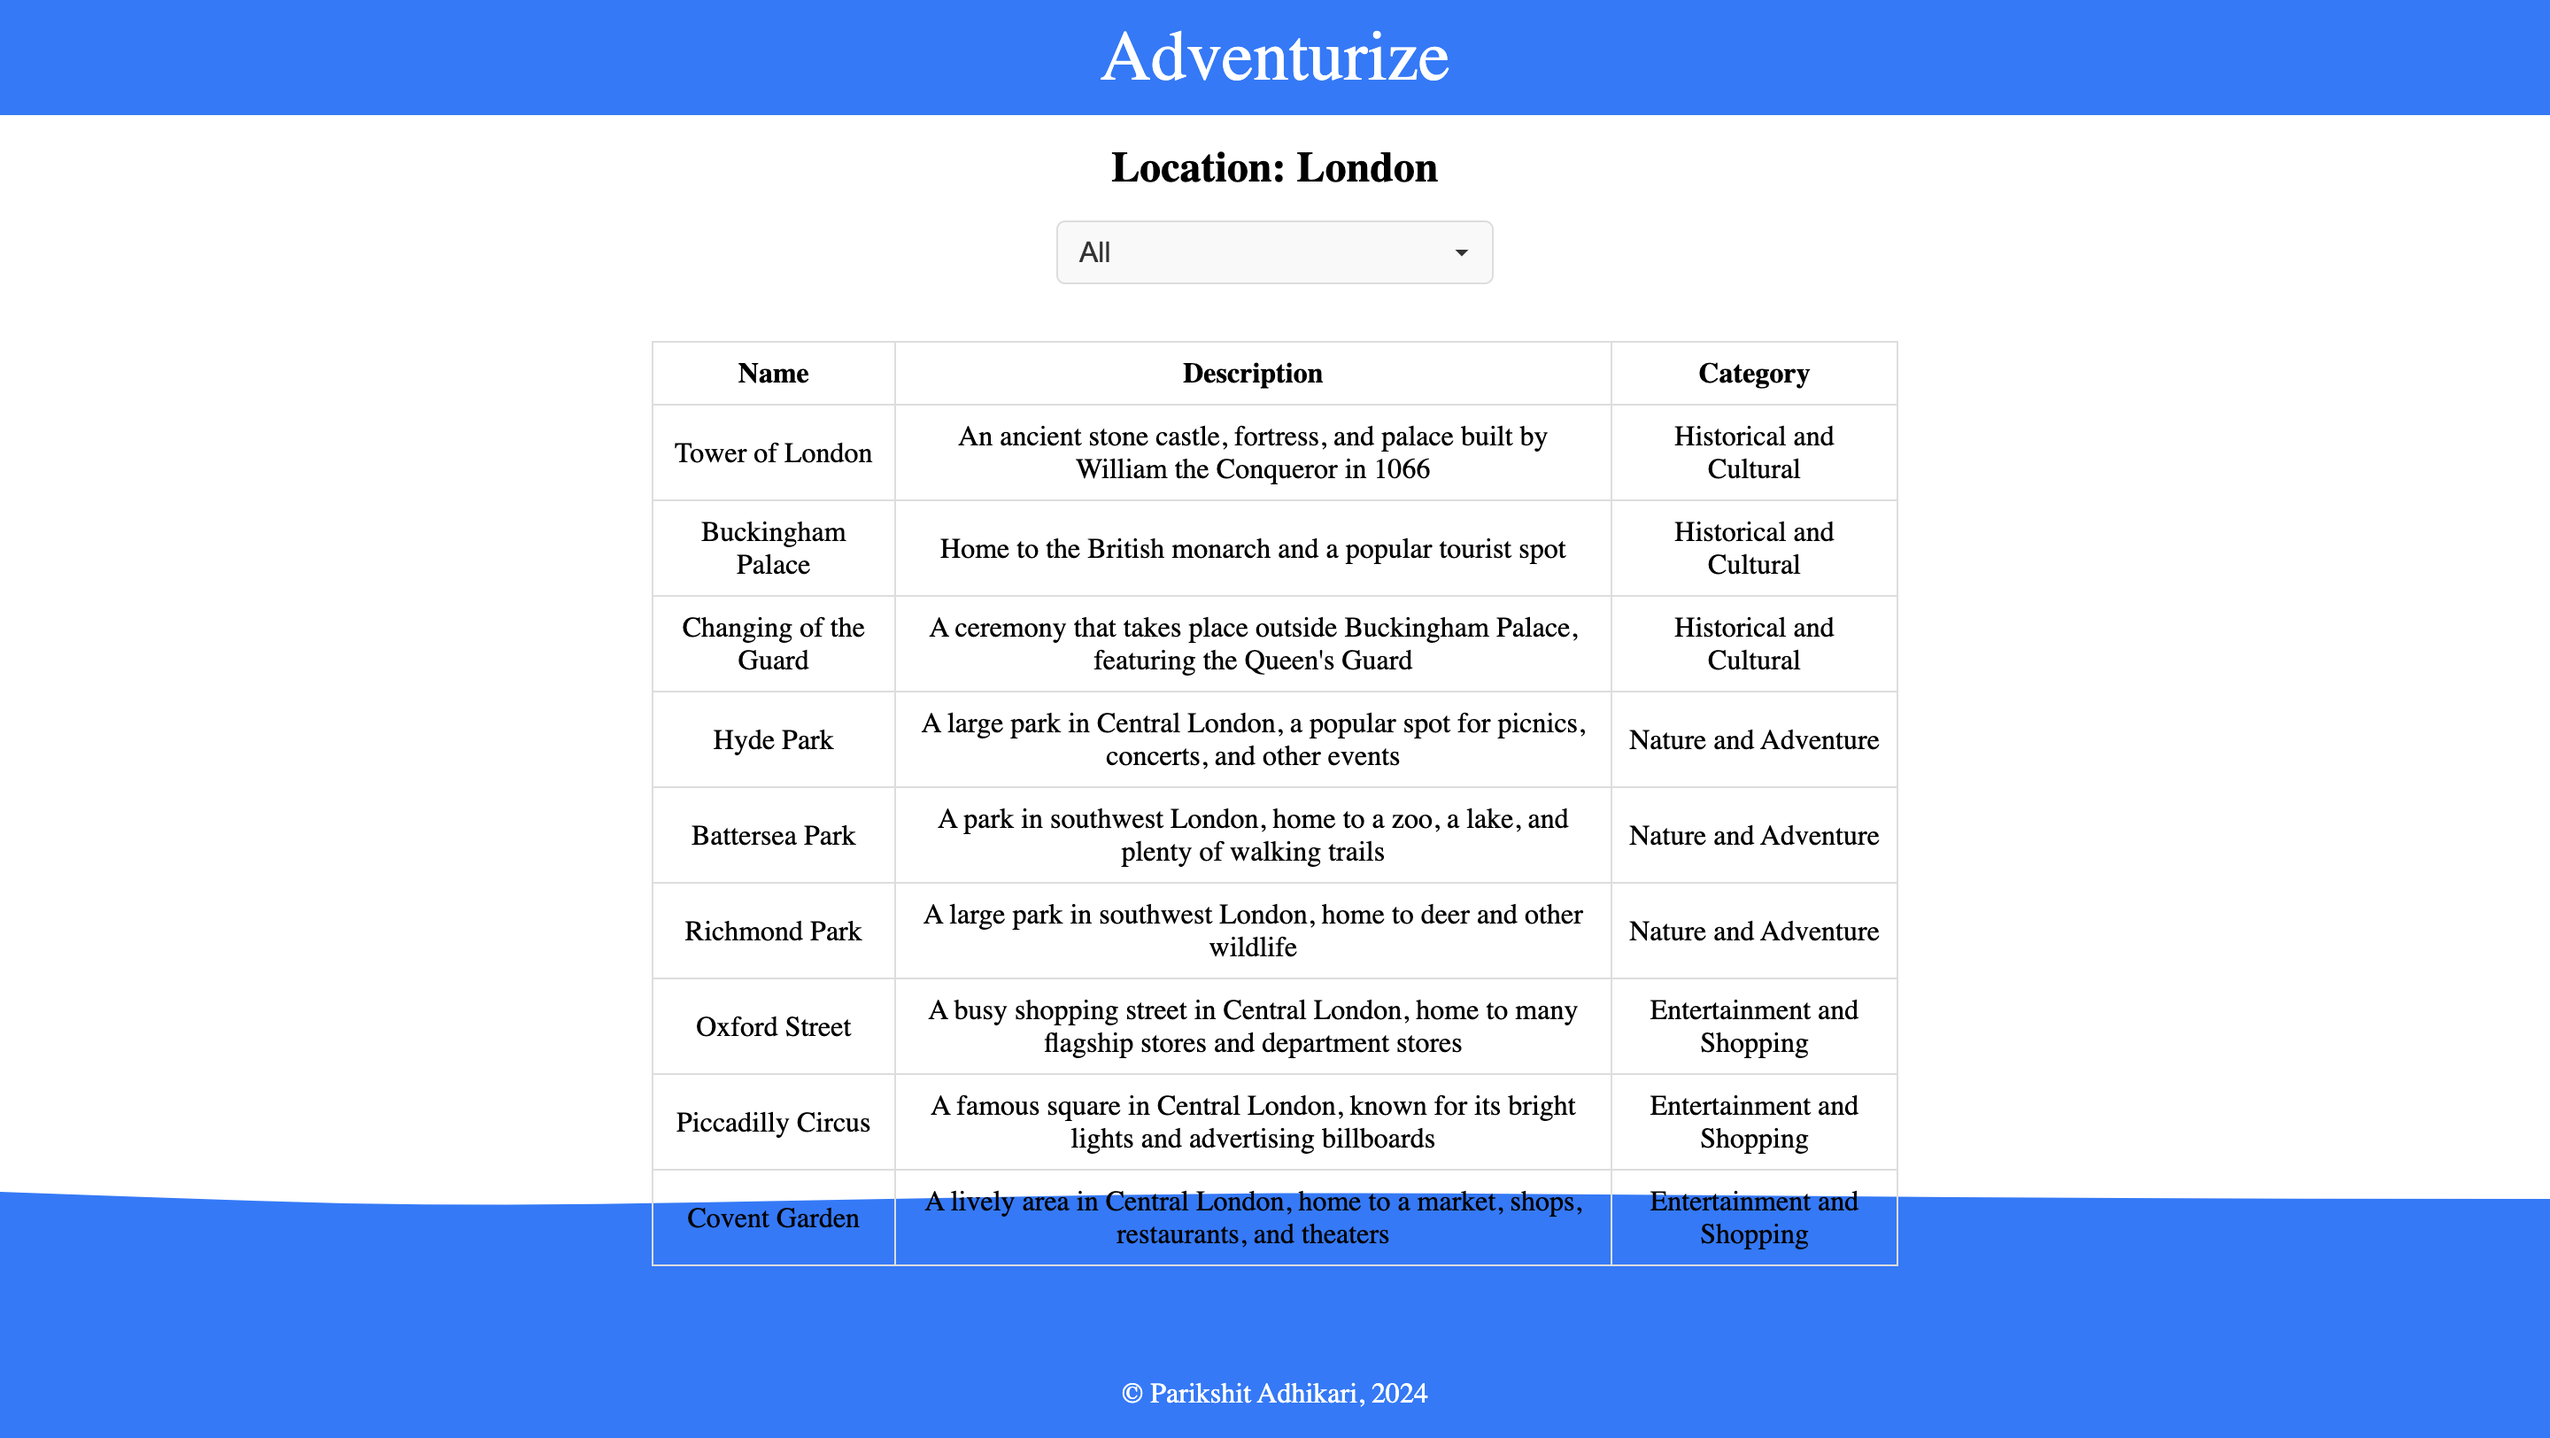
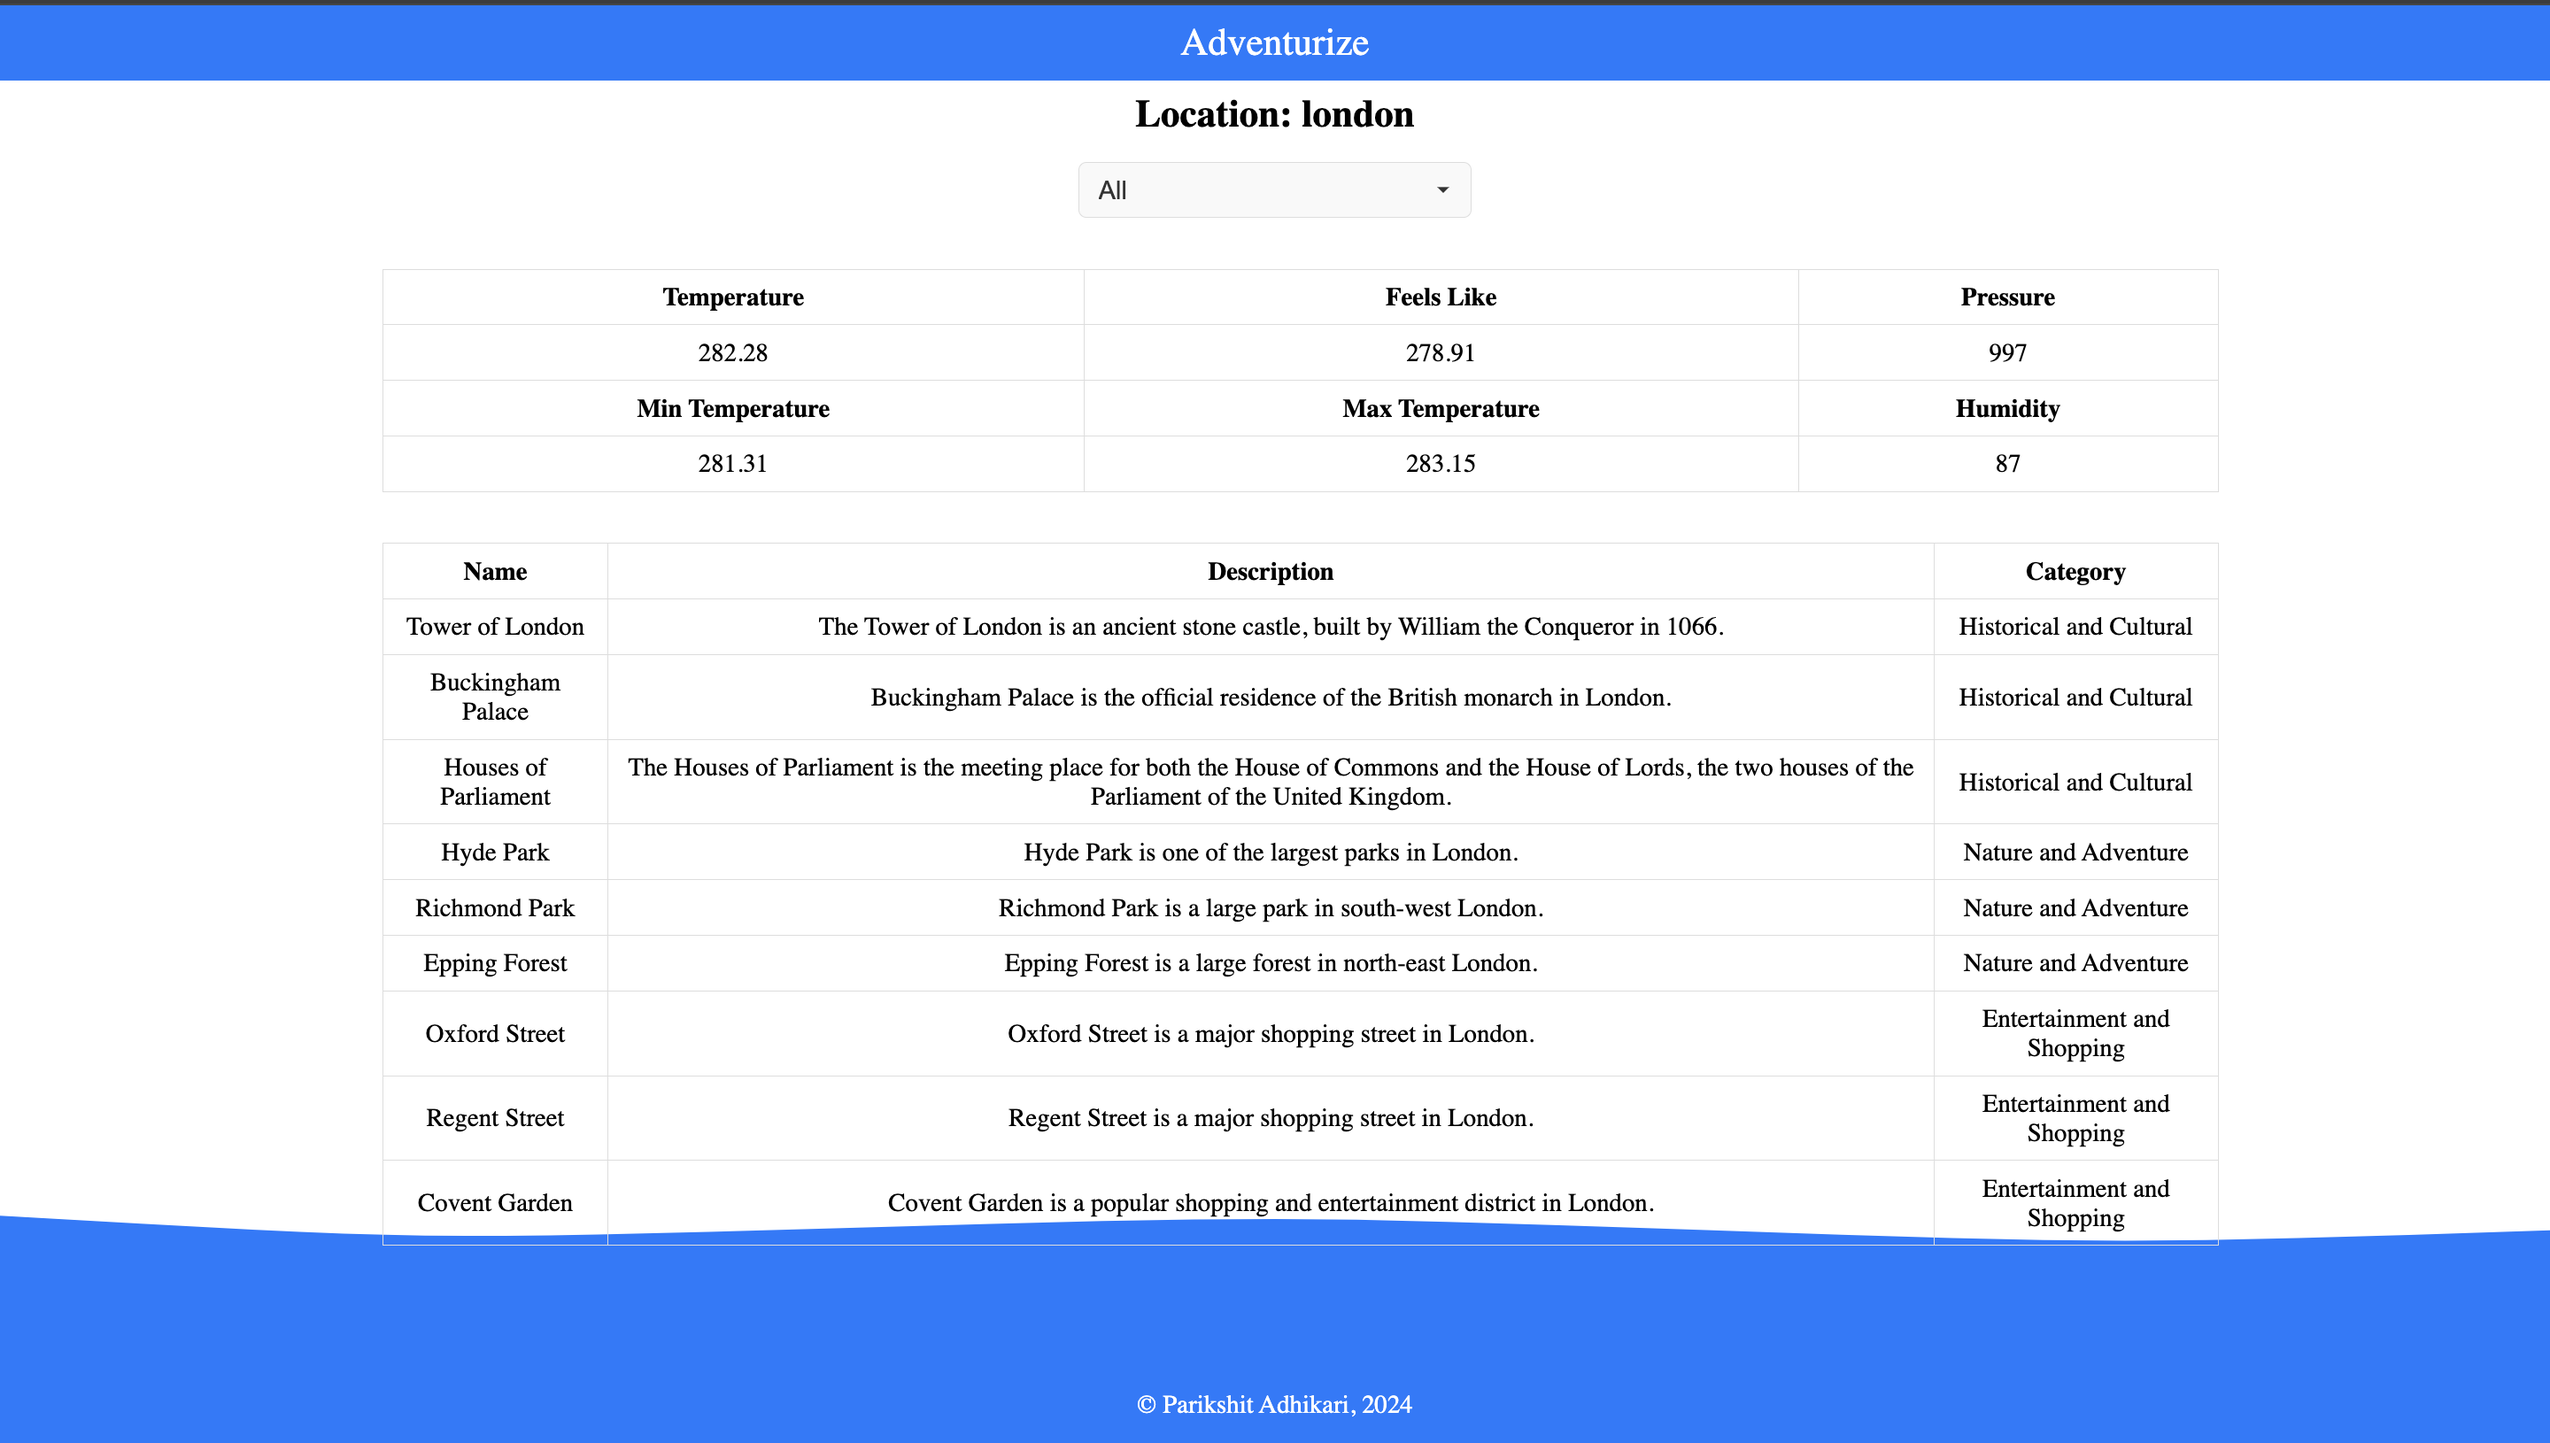
added weather

diff --git a/frontend/src/components/Response.jsx b/frontend/src/components/Response.jsx
@@ -14,8 +14,10 @@ const Response = ({ response }) => {
   };
 
   return (
-    <div style={style}>
-      <h2>Location: {location}</h2>
+    <div>
+      <h2 style={{ textAlign: "center", margin: "0.5rem" }}>
+        Location: {location}
+      </h2>
       <div style={dropdownContainerStyle}>
         <select
           value={selectedCategory}
@@ -32,22 +34,52 @@ const Response = ({ response }) => {
           </option>
         </select>
       </div>
-      <table style={tableStyle}>
-        <tbody>
-          <tr>
-            <th style={cellStyle}>Name</th>
-            <th style={cellStyle}>Description</th>
-            <th style={cellStyle}>Category</th>
-          </tr>
-          {filteredPlaces.map((place, index) => (
-            <tr key={index}>
-              <td style={dataCellStyle}>{place.name}</td>
-              <td style={dataCellStyle}>{place.description}</td>
-              <td style={dataCellStyle}>{place.category}</td>
-            </tr>
-          ))}
-        </tbody>
-      </table>
+      <div style={style}>
+        <div style={weatherTableDiv}>
+          <table style={tableStyle}>
+            <tbody>
+              <tr>
+                <th style={headerCellStyle}>Temperature</th>
+                <th style={headerCellStyle}>Feels Like</th>
+                <th style={headerCellStyle}>Pressure</th>
+              </tr>
+              <tr>
+                <td style={dataCellStyle}>{weather.temp}</td>
+                <td style={dataCellStyle}>{weather.feels_like}</td>
+                <td style={dataCellStyle}>{weather.pressure}</td>
+              </tr>
+              <tr>
+                <th style={headerCellStyle}>Min Temperature</th>
+                <th style={headerCellStyle}>Max Temperature</th>
+                <th style={headerCellStyle}>Humidity</th>
+              </tr>
+              <tr>
+                <td style={dataCellStyle}>{weather.temp_min}</td>
+                <td style={dataCellStyle}>{weather.temp_max}</td>
+                <td style={dataCellStyle}>{weather.humidity}</td>
+              </tr>
+            </tbody>
+          </table>
+        </div>
+        <div style={placesTableDiv}>
+          <table style={tableStylePlaces}>
+            <tbody>
+              <tr>
+                <th style={cellStyle}>Name</th>
+                <th style={cellStyle}>Description</th>
+                <th style={cellStyle}>Category</th>
+              </tr>
+              {filteredPlaces.map((place, index) => (
+                <tr key={index}>
+                  <td style={dataCellStyle}>{place.name}</td>
+                  <td style={dataCellStyle}>{place.description}</td>
+                  <td style={dataCellStyle}>{place.category}</td>
+                </tr>
+              ))}
+            </tbody>
+          </table>
+        </div>
+      </div>
     </div>
   );
 };
@@ -55,15 +87,30 @@ const Response = ({ response }) => {
 const style = {
   textAlign: "center",
   margin: "1rem",
+  display: "flex",
+  flexDirection: "column",
+  width: "100%",
+  justifyContent: "center",
+  alignItems: "center"
 };
-
 const tableStyle = {
   borderCollapse: "collapse",
-  width: "50%",
   margin: "1rem auto",
   border: "1px solid black",
+  width: "90%"
 };
-
+const tableStylePlaces = {
+  borderCollapse: "collapse",
+  margin: "1rem auto",
+  border: "1px solid black",
+  width: "90%"
+};
+const weatherTableDiv = {
+  width: "80%",
+};
+const placesTableDiv = {
+  width: "80%",
+};
 const cellStyle = {
   border: "1px solid #ddd",
   padding: "8px",
@@ -87,12 +134,19 @@ const dropdownStyle = {
   backgroundRepeat: "no-repeat",
   backgroundPosition: "right 8px top 50%",
   paddingRight: "30px",
-    cursor: "pointer",
-  margin: "1rem"
+  cursor: "pointer",
+  margin: "1rem auto",
+  display: "block",
 };
 
 const dropdownContainerStyle = {
   marginBottom: "1rem",
+};
+const headerCellStyle = {
+  border: "1px solid #ddd",
+  padding: "8px",
+  textAlign: "center",
+  fontWeight: "bold",
 };
 
 export default Response;
